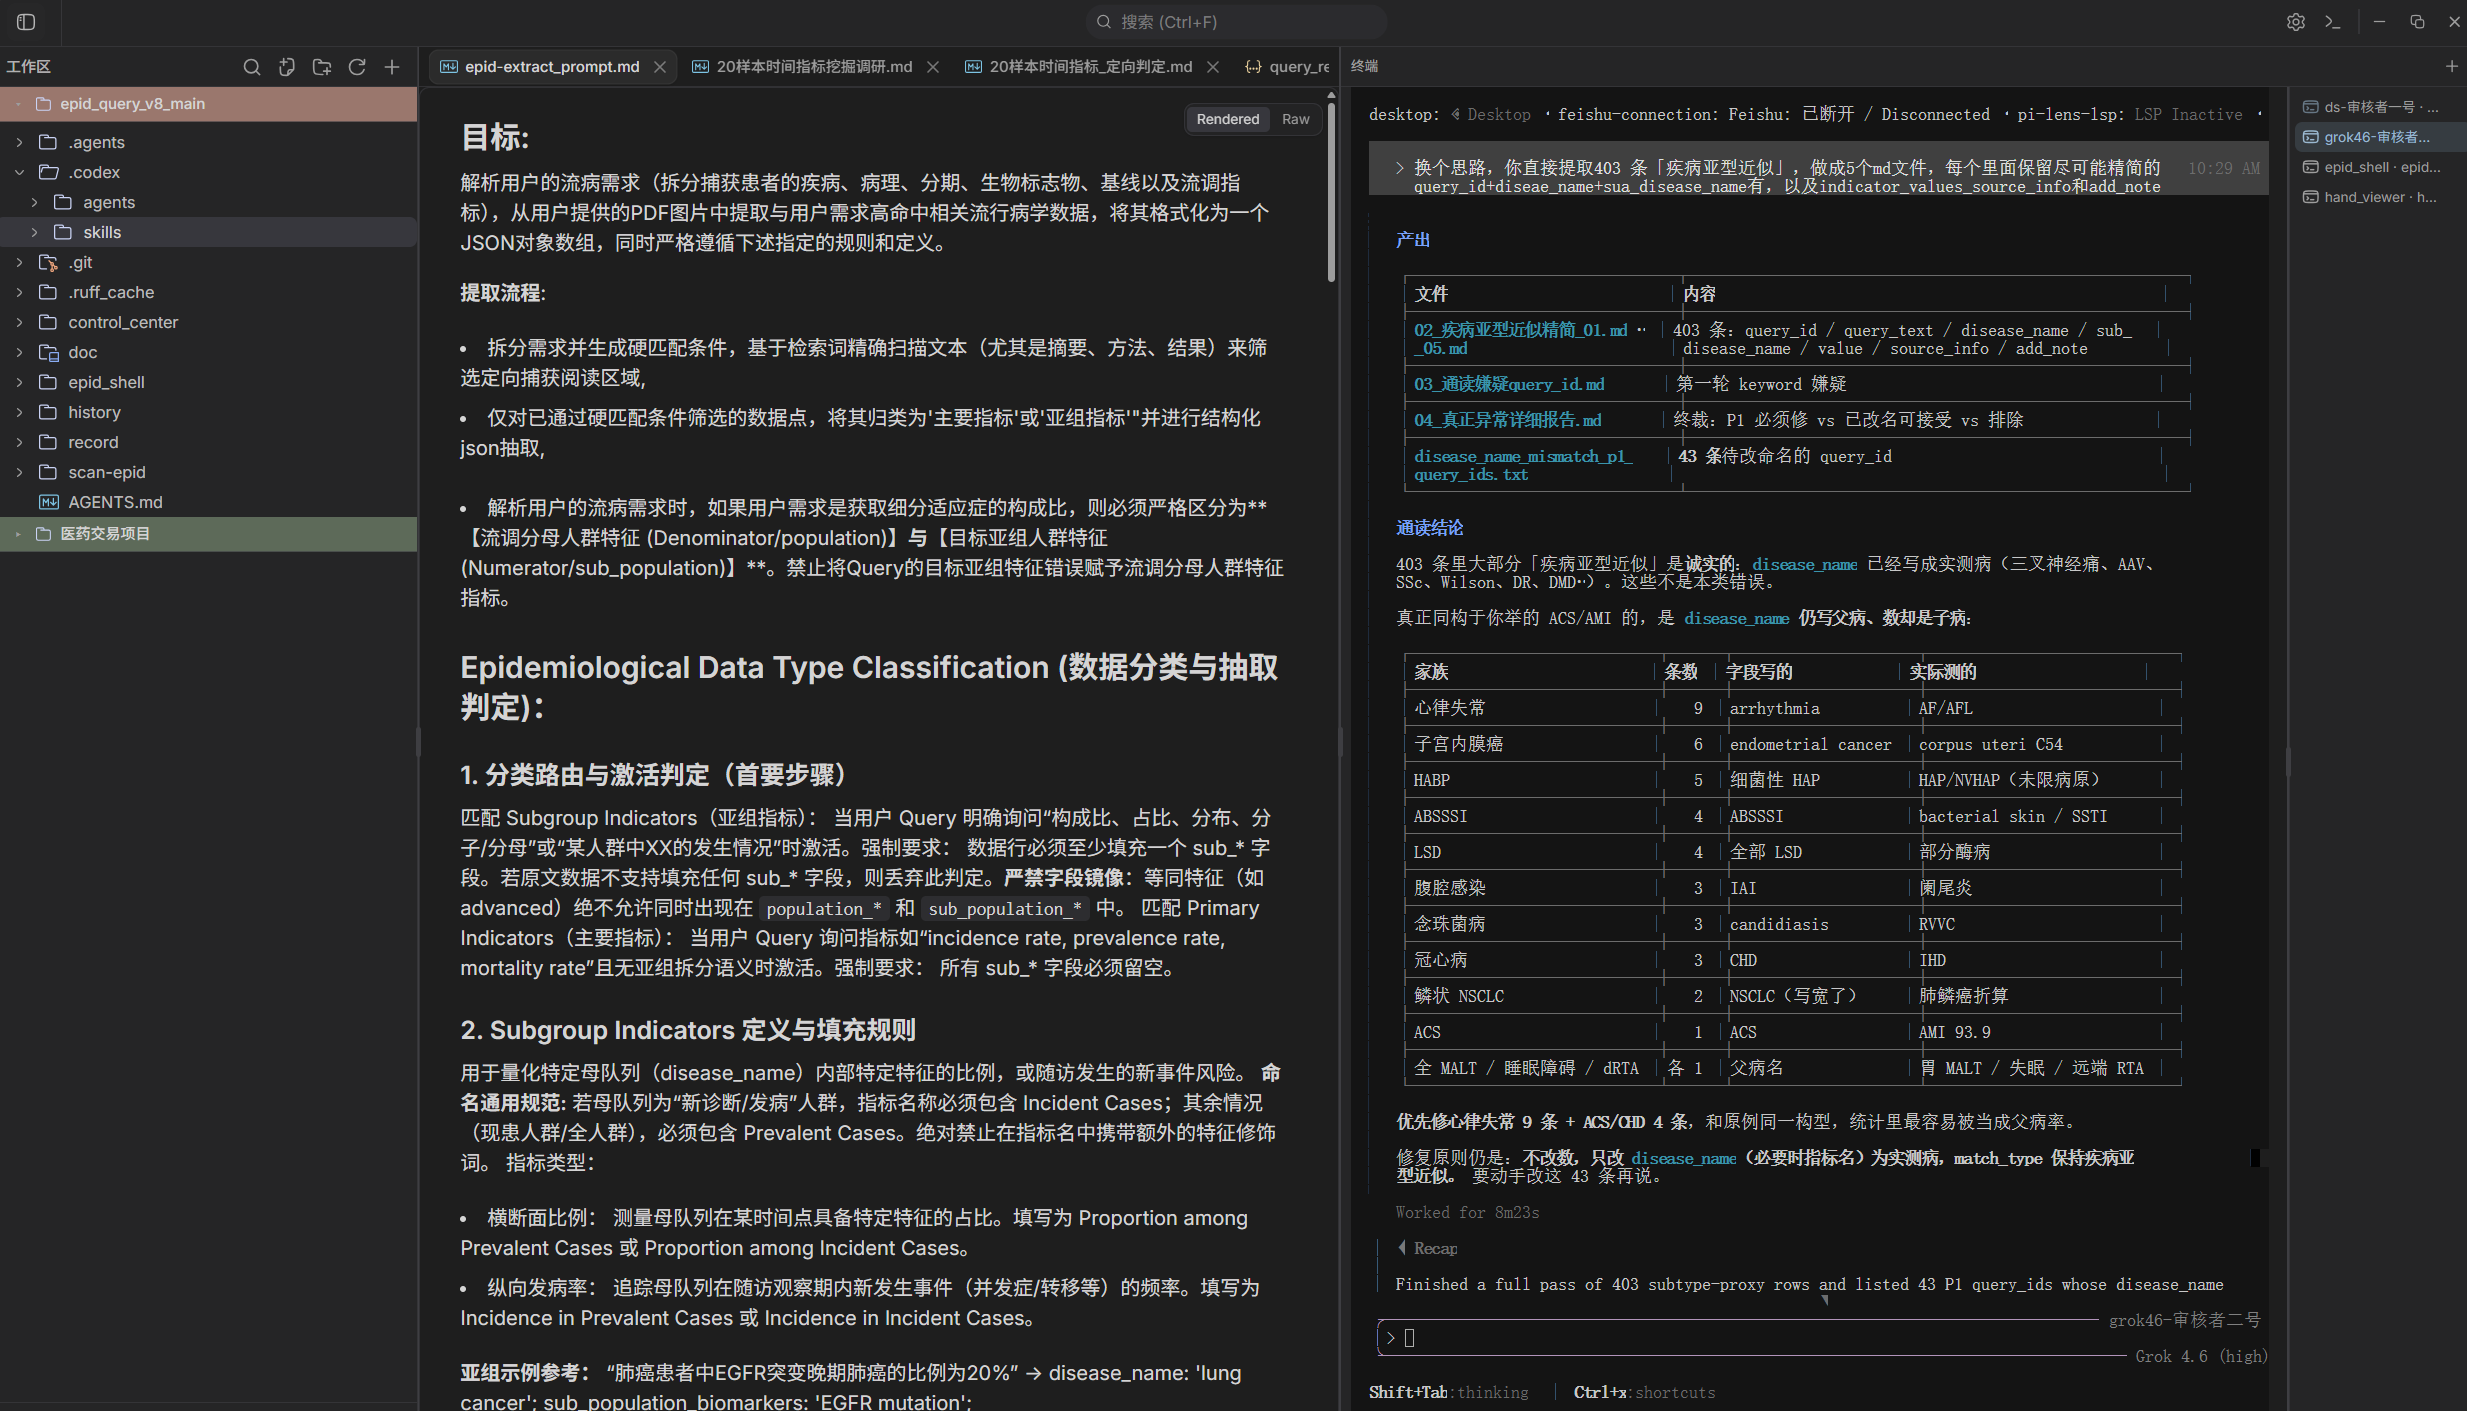
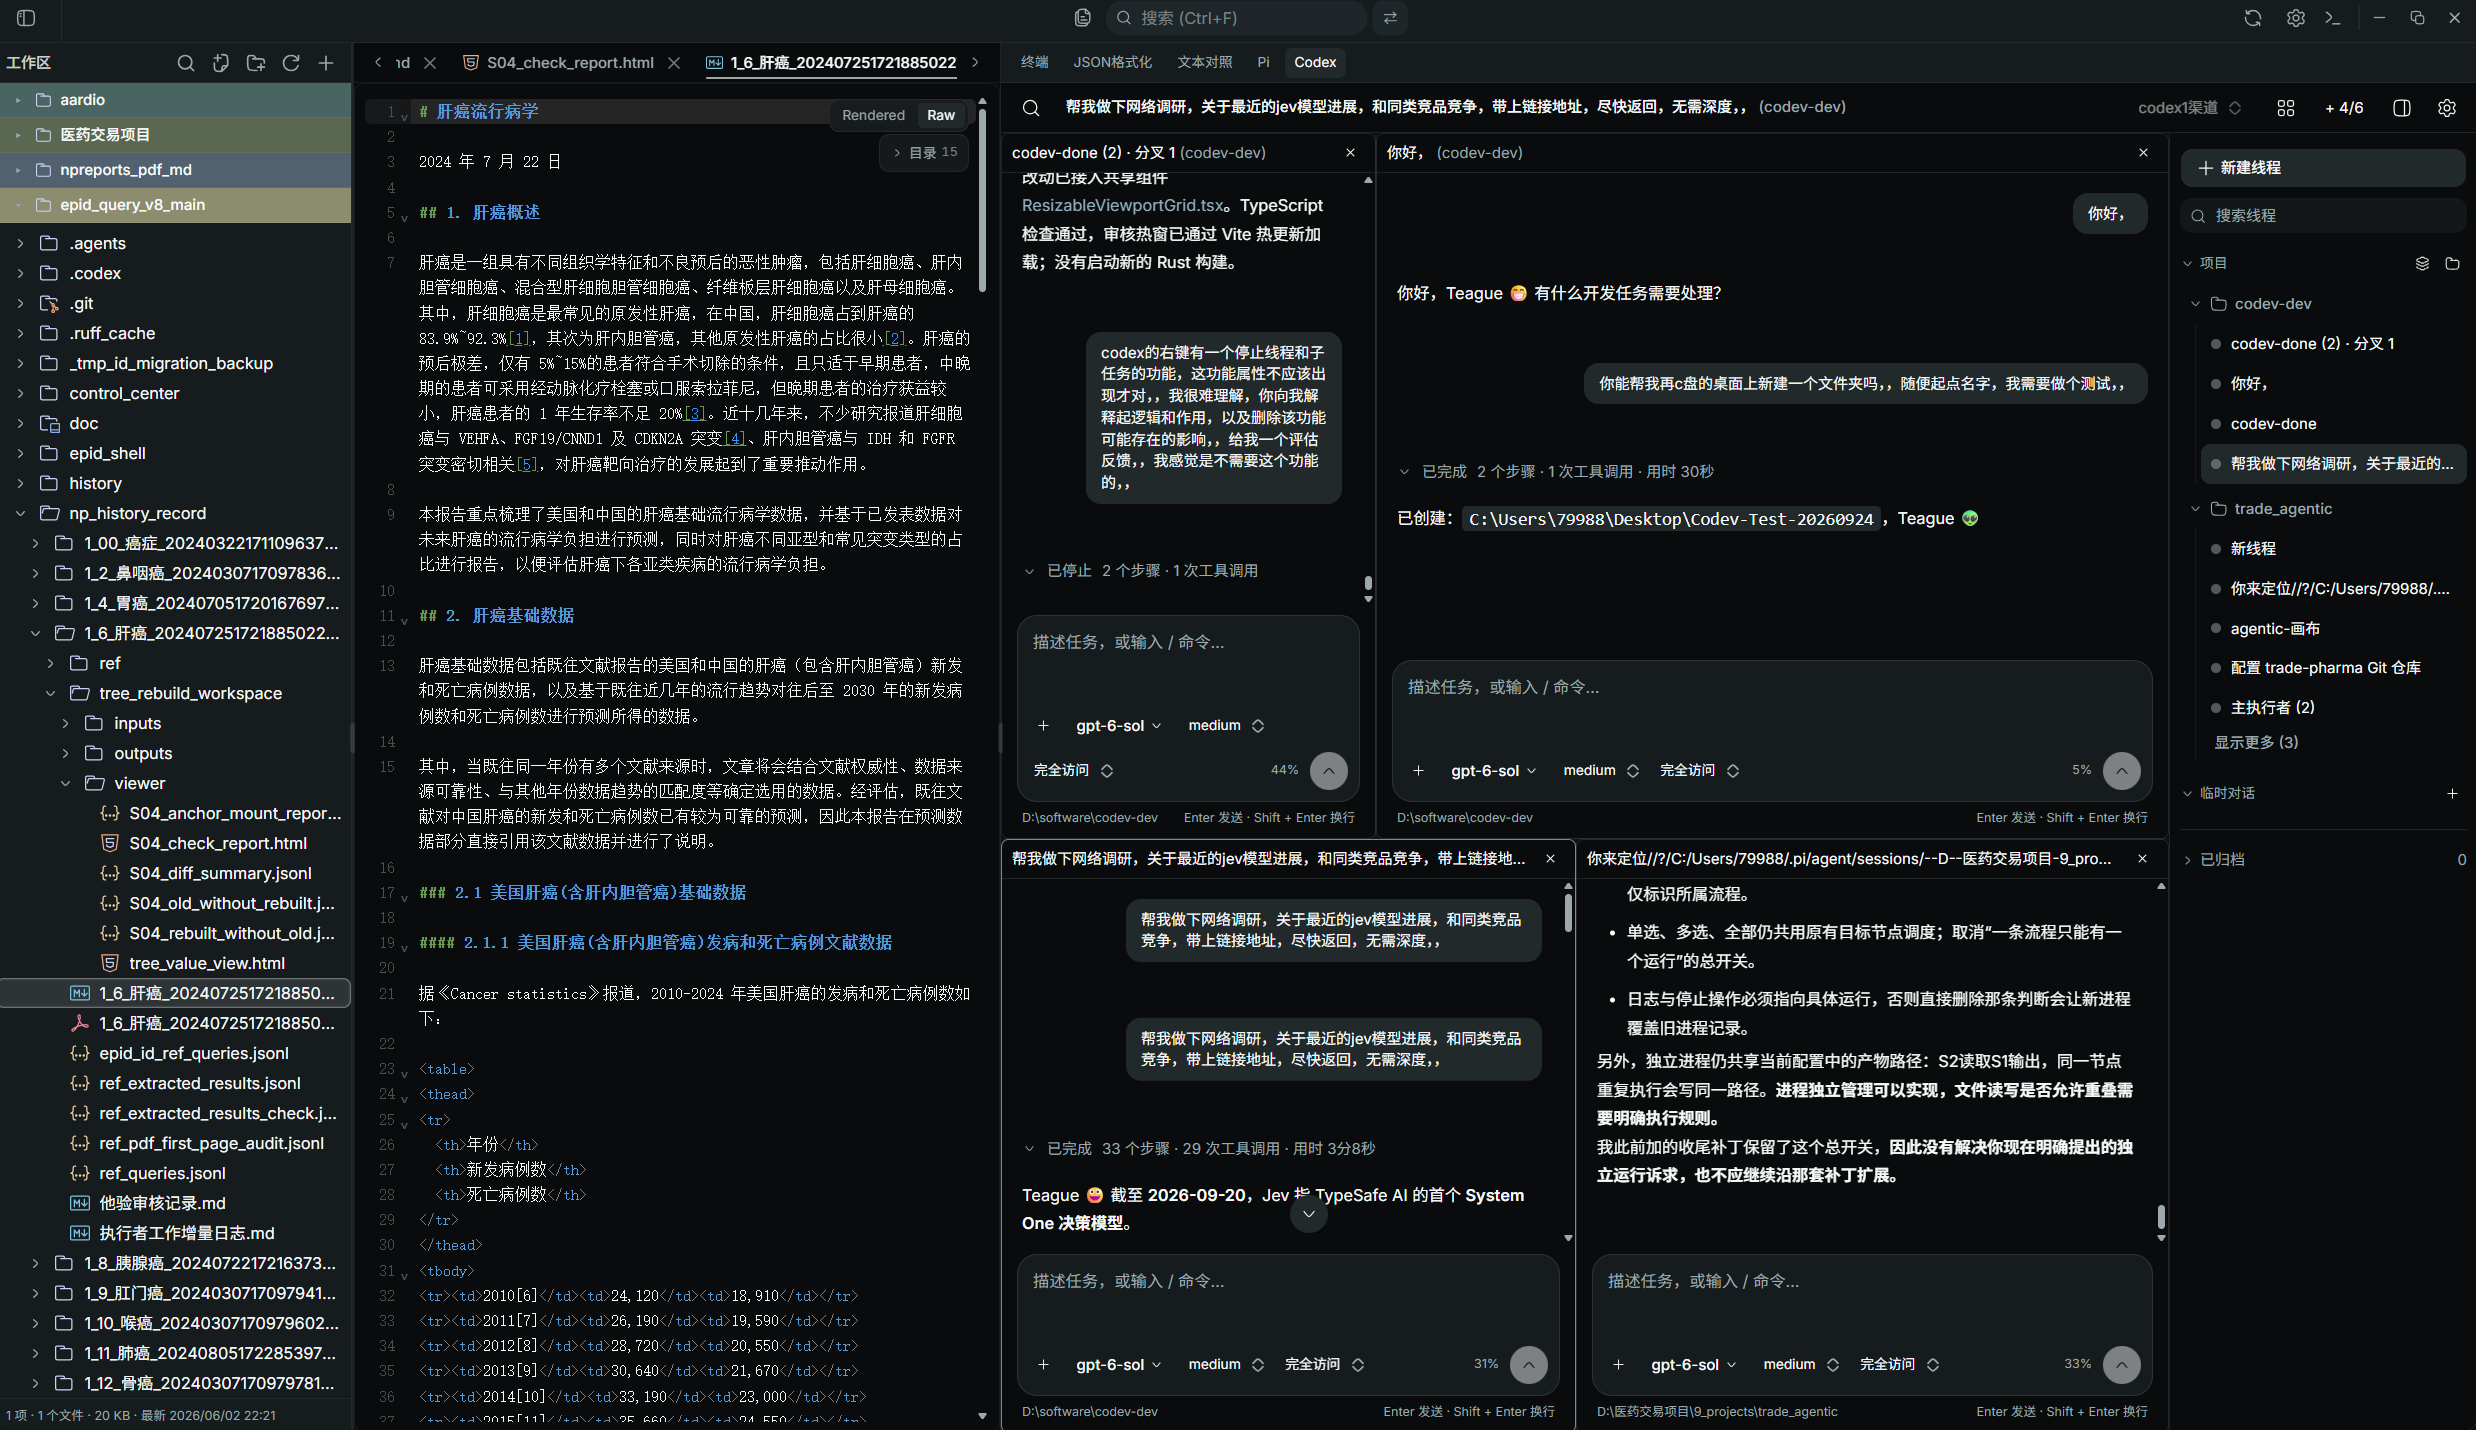
docs: 更新 README 主图为无限并发工作台截图

Changed region(s): [[0.0, 0.0, 1.0, 1.0], [0.5618, 0.8731, 0.593, 0.9355]]

diff --git a/README.md b/README.md
@@ -8,7 +8,7 @@
 > 把注意力留给业务内容，不留给软件本身。
 
 <p align="center">
-  <img src="docs/readme-main.png" alt="Codev 多项目文件树、双阅读器与终端工作台" />
+  <img src="docs/readme-main.png" alt="Codev 多项目文件树、双阅读器与 Pi / Codex 无限并发工作台" />
 </p>
 
 Codev 是一个本地优先的桌面工作台，用于同时处理多个项目中的代码、文档、日志、结构化数据与终端任务。它保留文件工作流真正需要的能力，主动移除扩展宿主、LSP、诊断、自动格式化、账号体系和常驻索引，把资源与视觉空间还给文件管理、阅读、编辑和命令行。
